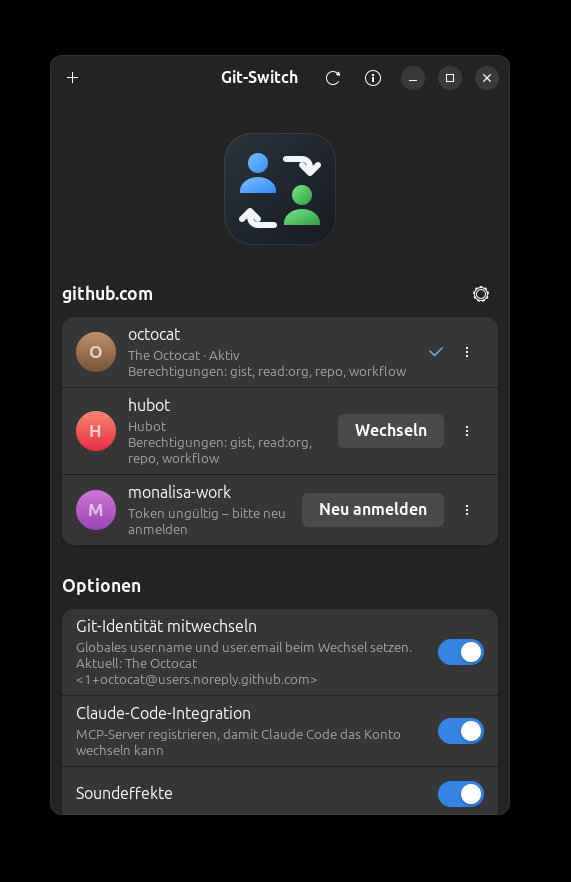
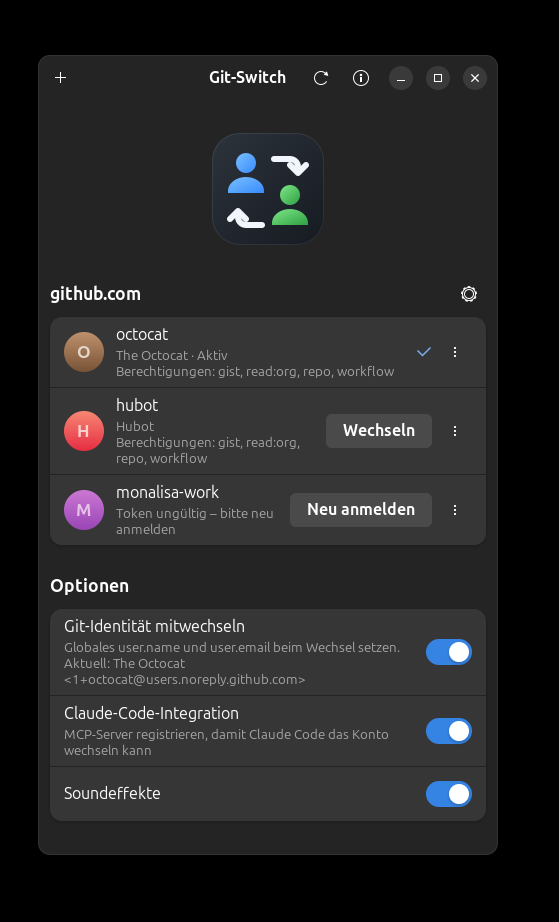
Make the window tall enough for all options
The German texts need more room, so the last option was cut off at the
default window size. Screenshots retaken.

Deutsch: Das Fenster ist jetzt hoch genug für alle Optionen. Die deutschen
Texte brauchen mehr Platz, dadurch war die letzte Option in der
Standardgröße abgeschnitten. Screenshots neu aufgenommen.

diff --git a/gitswitch/gui.py b/gitswitch/gui.py
@@ -34,7 +34,7 @@ def run_async(func, callback) -> None:
 
 class Window(Adw.ApplicationWindow):
     def __init__(self, app: Adw.Application):
-        super().__init__(application=app, title="Git-Switch", default_width=460, default_height=760)
+        super().__init__(application=app, title="Git-Switch", default_width=460, default_height=800)
         self.settings = core.load_settings()
         self.profiles: dict[core.Account, core.Profile] = {}
         self.avatars: dict[str, Gdk.Texture] = {}
